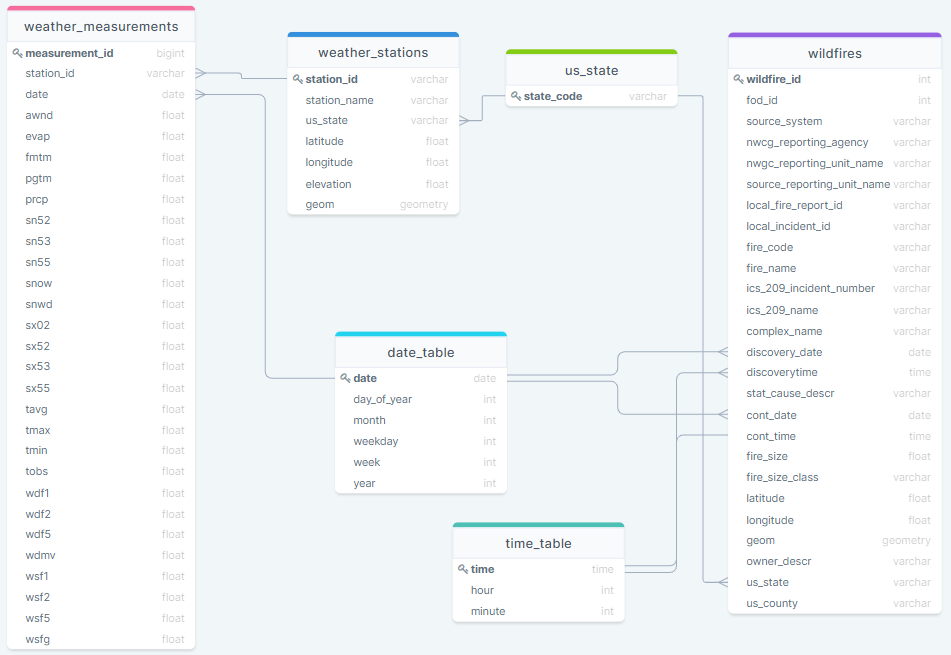
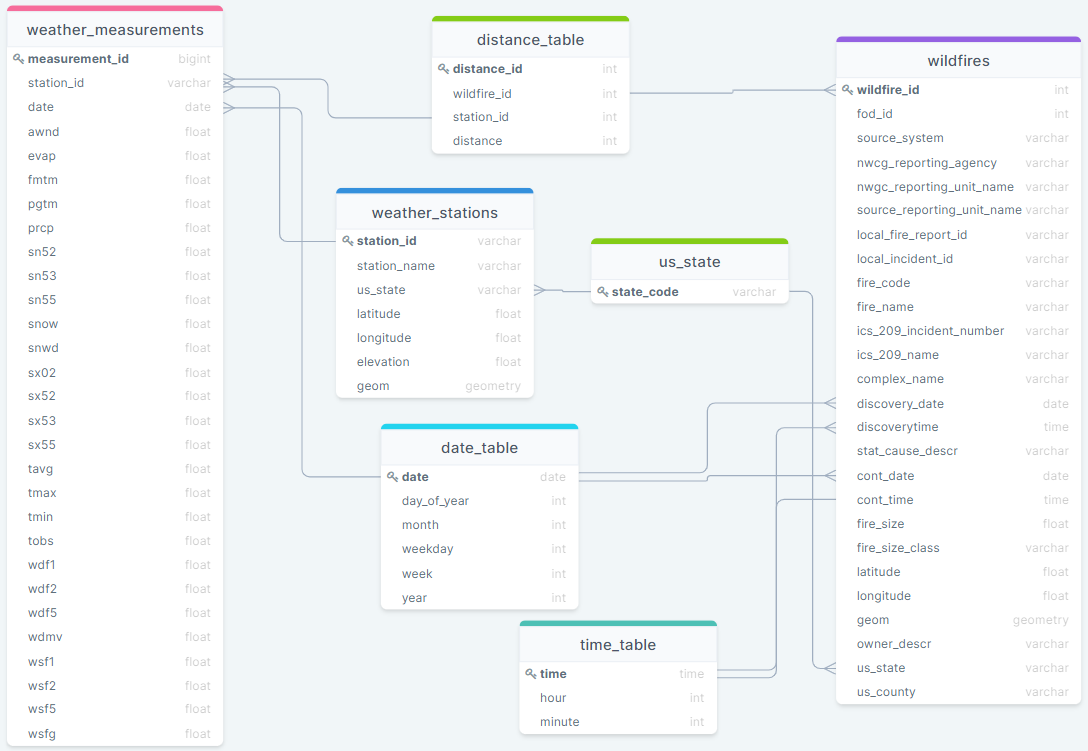
included distance table

diff --git a/dags/wildfire_dag.py b/dags/wildfire_dag.py
@@ -31,7 +31,7 @@ default_args = {
 dag = DAG('wildfire_dag',
           default_args=default_args,
           description='Capstone project DAG',
-          schedule_interval='@daily',
+          schedule_interval='@once',
           max_active_runs=1
           )
 
@@ -85,13 +85,6 @@ stage_wildfire_to_redshift = StageToRedshiftOperator(
     format='parquet'
 )
 
-insert_fact_tables_redshift = InsertRedshiftTablesOperator(
-    task_id='Insert_fact_tables_redshift',
-    dag=dag,
-    postgres_conn_id="redshift",
-    query_list=InsertTables.insert_fact_tables
-)
-
 insert_dimension_tables = InsertRedshiftTablesOperator(
     task_id='Insert_dimension_tables',
     dag=dag,
@@ -99,12 +92,26 @@ insert_dimension_tables = InsertRedshiftTablesOperator(
     query_list=InsertTables.insert_dimension_tables
 )
 
+insert_fact_tables_redshift = InsertRedshiftTablesOperator(
+    task_id='Insert_fact_tables_redshift',
+    dag=dag,
+    postgres_conn_id="redshift",
+    query_list=InsertTables.insert_fact_tables
+)
+
+insert_distance_table_redshift = InsertRedshiftTablesOperator(
+    task_id='Insert_distance_table_redshift',
+    dag=dag,
+    postgres_conn_id="redshift",
+    query_list=InsertTables.insert_distance_table
+)
+
 run_quality_checks = DataQualityOperator(
     task_id='Data_quality_check',
     dag=dag,
     postgres_conn_id="redshift",
     tables=['weather_measurements', 'weather_stations', 'date_table', 'time_table', 'us_state',
-            'wildfires']
+            'wildfires', 'distance_table']
 )
 
 pause_redshift = RedshiftPauseClusterOperator(
@@ -120,18 +127,14 @@ start_operator >> resume_redshift
 
 resume_redshift >> drop_tables_if_exists
 
-drop_tables_if_exists >> create_staging_tables
-create_staging_tables >> create_tables
+drop_tables_if_exists >> create_staging_tables >> create_tables
 
-create_tables >> stage_weather_to_redshift
-create_tables >> stage_wildfire_to_redshift
+create_tables >> stage_weather_to_redshift >> insert_dimension_tables
+create_tables >> stage_wildfire_to_redshift >> insert_dimension_tables
 
-stage_weather_to_redshift >> insert_fact_tables_redshift
-stage_wildfire_to_redshift >> insert_fact_tables_redshift
+insert_dimension_tables >> insert_fact_tables_redshift >> insert_distance_table_redshift
 
-insert_fact_tables_redshift >> insert_dimension_tables
-
-insert_dimension_tables >> run_quality_checks
+insert_distance_table_redshift >> run_quality_checks
 
 run_quality_checks >> pause_redshift
 
